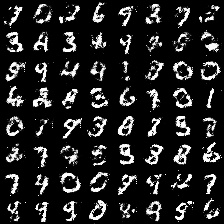
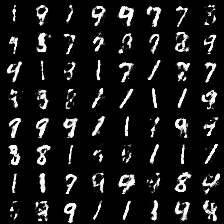
update: f-GAN (Reverse-KL) results

diff --git a/FGAN/readme.md b/FGAN/readme.md
@@ -23,8 +23,8 @@
 *Name* | *graph* | *time*
 :---: | :---: | :---:
 **GAN** | ![result](./tb/gan_tb.png) | 19m s
-**KL** | ![result](./tb/kl_tb.png) | 19m 45s
-**Reverse-KL** | ![result](./tb/reverse-kl_tb.png) | 19m 56s
+**KL** | ![result](./tb/kl_tb.png) | 19m 40s
+**Reverse-KL** | ![result](./tb/reverse-kl_tb.png) | 19m 53s
 **JS** | ![result](./tb/js_tb.png) | 19m s
 **JS-Weighted** | ![result](./tb/js-weighted_tb.png) | 19m s
 **Squared-hellinger** | ![result](./tb/squared-hellinger_tb.png) | 19m s
@@ -39,7 +39,7 @@
 
 *Name* | *Global Step 5k* | *Global Step 10k* | *Global Step 20k*
 :---: | :---: | :---: | :---:
-**f-GAN (GAN)**                 | ![img](./gen_img/GAN/train_5000.png) | ![img](./gen_img/GAN/train_10000.png) | ![img](./gen_img/GAN/train_20000.png)
+**f-GAN (GAN)**                | ![img](./gen_img/GAN/train_5000.png) | ![img](./gen_img/GAN/train_10000.png) | ![img](./gen_img/GAN/train_20000.png)
 **f-GAN (KL)**                 | ![img](./gen_img/KL/train_5000.png) | ![img](./gen_img/KL/train_10000.png) | ![img](./gen_img/KL/train_20000.png)
 **f-GAN (Reverse-KL)**         | ![img](./gen_img/Reverse-KL/train_5000.png) | ![img](./gen_img/Reverse-KL/train_10000.png) | ![img](./gen_img/Reverse-KL/train_20000.png)
 **f-GAN (JS)**                 | ![img](./gen_img/JS/train_5000.png) | ![img](./gen_img/JS/train_10000.png) | ![img](./gen_img/JS/train_20000.png)
@@ -50,7 +50,7 @@
 **f-GAN (Jeffrey)**            | ![img](./gen_img/Jeffrey/train_5000.png) | ![img](./gen_img/Jeffrey/train_10000.png) | ![img](./gen_img/Jeffrey/train_20000.png)
 **f-GAN (Total-Variation)**    | ![img](./gen_img/Total-Variation/train_5000.png) | ![img](./gen_img/Total-Variation/train_10000.png) | ![img](./gen_img/Total-Variation/train_20000.png)
 
-> I just skipped vanilla GAN loss.
+> GAN with ``Reverse-KL divergence`` seems like *model-collapsed*. But after `10k steps`, it just works well.
 
 ## To-Do
 * Add f-divergences
